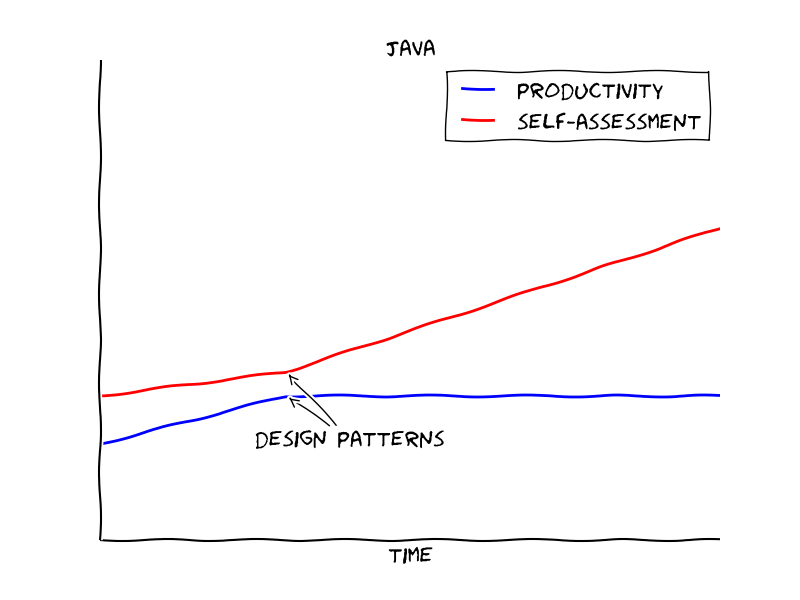
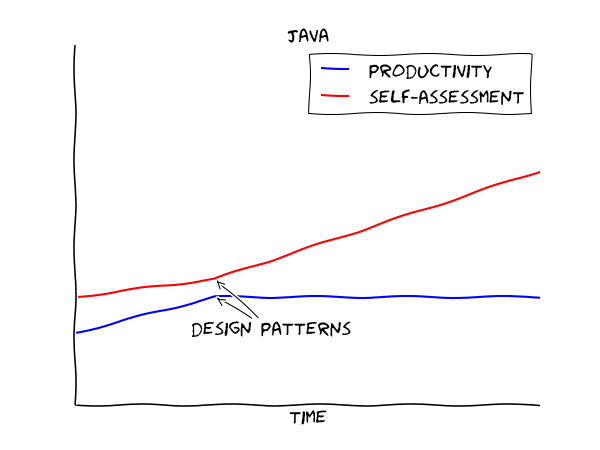
smaller images

diff --git a/programming_language_learning_curves/generate.py b/programming_language_learning_curves/generate.py
@@ -10,7 +10,7 @@ import numpy as np
 import matplotlib.font_manager as fm
 import matplotlib
 
-prop = fm.FontProperties(fname='Humor-Sans.ttf', size=16)
+prop = fm.FontProperties(fname='Humor-Sans.ttf', size=18)
 
 def annotate(text, pos, to):
   plt.annotate(text, xy=to, arrowprops=dict(arrowstyle='->'), xytext=pos,
@@ -35,7 +35,7 @@ def defaults2(title, loc='upper right', filename=None):
   plt.xlabel('time', fontproperties=prop)
   if not filename:
     filename = title.lower()
-  plt.savefig(filename.lower() + '.png')
+  plt.savefig(filename.lower() + '.png', dpi=75)
   plt.clf()
 
 def javascript():
@@ -132,13 +132,13 @@ def cpp():
 def haskell():
   defaults1()
 
-  annotate('My brain hurts!', (3, 20), (2, 8))
-  annotate('My brain hurts!', (3, 20), (6, 8))
-  annotate('My brain hurts!', (3, 20), (10, 8))
-  annotate('My brain hurts!', (3, 20), (14, 8))
-  annotate('My brain hurts!', (3, 20), (18, 8))
-  annotate('My brain hurts!', (3, 20), (22, 8))
-  annotate('My brain hurts!', (3, 20), (26, 8))
+  annotate('My brain hurts!', (1, 20), (2, 8))
+  annotate('My brain hurts!', (1, 20), (6, 8))
+  annotate('My brain hurts!', (1, 20), (10, 8))
+  annotate('My brain hurts!', (1, 20), (14, 8))
+  annotate('My brain hurts!', (1, 20), (18, 8))
+  annotate('My brain hurts!', (1, 20), (22, 8))
+  annotate('My brain hurts!', (1, 20), (26, 8))
 
   annotate('Monads', (25, 40), (40, 20))
   annotate('Monads', (25, 40), (40, 30))
